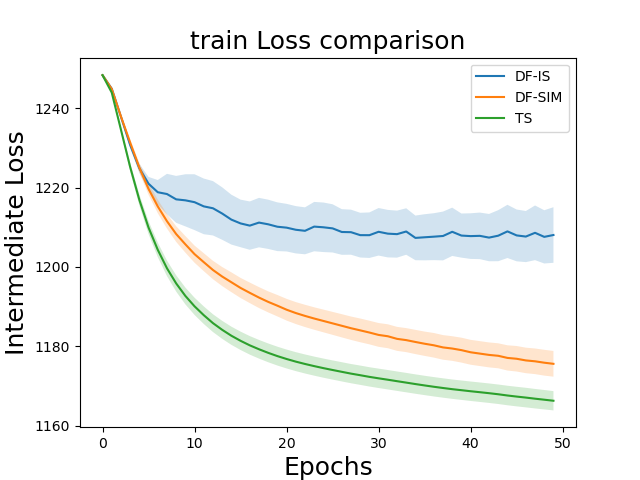
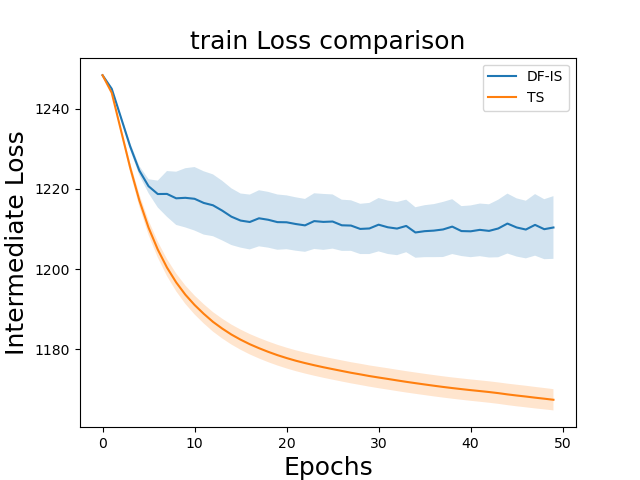
changed to 5-state MDP with ts_weight=0.5

diff --git a/dfl/visualization.py b/dfl/visualization.py
@@ -74,6 +74,9 @@ if args.plot:
 
     num_epochs= len(df_is_outputs[0][0][mode])-1 ## Last entry is the OPE if GT is perfectly known
 
+    random_metrics = [[ts_outputs[sd-args.seed][i][mode][-1] for i in range(3)] for sd in range(args.seed, args.seed+args.tr)]
+    random_mean, random_ste = np.mean(random_metrics, axis=0), np.std(random_metrics, axis=0) / np.sqrt(len(ts_outputs))
+    
     ### Loss figure
     plt.figure()
     
@@ -108,8 +111,8 @@ if args.plot:
     plt.plot(range(num_epochs), df_is_means, label='DF-IS')
     plt.fill_between(range(num_epochs), df_is_means-df_is_errors, df_is_means+df_is_errors, alpha=0.2)
     
-    plt.plot(range(num_epochs), df_sim_means, label='DF-SIM')
-    plt.fill_between(range(num_epochs), df_sim_means-df_sim_errors, df_sim_means+df_sim_errors, alpha=0.2)
+    # plt.plot(range(num_epochs), df_sim_means, label='DF-SIM')
+    # plt.fill_between(range(num_epochs), df_sim_means-df_sim_errors, df_sim_means+df_sim_errors, alpha=0.2)
     
     plt.plot(range(num_epochs), ts_means, label='TS')
     plt.fill_between(range(num_epochs), ts_means-ts_errors, ts_means+ts_errors, alpha=0.2)
@@ -156,8 +159,8 @@ if args.plot:
     plt.plot(range(num_epochs), df_is_means, label='DF-IS')
     plt.fill_between(range(num_epochs), df_is_means-df_is_errors, df_is_means+df_is_errors, alpha=0.2)
     
-    plt.plot(range(num_epochs), df_sim_means, label='DF-SIM')
-    plt.fill_between(range(num_epochs), df_sim_means-df_sim_errors, df_sim_means+df_sim_errors, alpha=0.2)
+    # plt.plot(range(num_epochs), df_sim_means, label='DF-SIM')
+    # plt.fill_between(range(num_epochs), df_sim_means-df_sim_errors, df_sim_means+df_sim_errors, alpha=0.2)
     
     plt.plot(range(num_epochs), ts_means, label='TS')
     plt.fill_between(range(num_epochs), ts_means-ts_errors, ts_means+ts_errors, alpha=0.2)
@@ -204,8 +207,8 @@ if args.plot:
     plt.plot(range(num_epochs), df_is_means, label='DF-IS')
     plt.fill_between(range(num_epochs), df_is_means-df_is_errors, df_is_means+df_is_errors, alpha=0.2)
     
-    plt.plot(range(num_epochs), df_sim_means, label='DF-SIM')
-    plt.fill_between(range(num_epochs), df_sim_means-df_sim_errors, df_sim_means+df_sim_errors, alpha=0.2)
+    # plt.plot(range(num_epochs), df_sim_means, label='DF-SIM')
+    # plt.fill_between(range(num_epochs), df_sim_means-df_sim_errors, df_sim_means+df_sim_errors, alpha=0.2)
     
     plt.plot(range(num_epochs), ts_means, label='TS')
     plt.fill_between(range(num_epochs), ts_means-ts_errors, ts_means+ts_errors, alpha=0.2)
@@ -237,18 +240,15 @@ if args.plot:
     df_sim_selected_epoch = np.argmax(df_sim_outputs[sd-args.seed][2]['val'][:-1]) # Maximize SIM OPE
     df_sim_selected_metrics.append([df_sim_outputs[sd-args.seed][i]['test'][df_sim_selected_epoch] for i in range(3)])
   
-  random_metrics = [[ts_outputs[sd-args.seed][i]['test'][-1] for i in range(3)] for sd in range(args.seed, args.seed+args.tr)]
-
   ts_selected_metrics=np.array(ts_selected_metrics)
   df_is_selected_metrics=np.array(df_is_selected_metrics)
   df_sim_selected_metrics=np.array(df_sim_selected_metrics)
 
-  random_test_mean, random_test_ste = np.mean(random_metrics, axis=0), np.std(random_metrics, axis=0) / np.sqrt(len(ts_outputs))
   ts_test_mean, ts_test_ste         = np.mean(ts_selected_metrics, axis=0), np.std(ts_selected_metrics, axis=0) / np.sqrt(len(ts_outputs))
   df_is_test_mean, df_is_test_ste   = np.mean(df_is_selected_metrics, axis=0), np.std(df_is_selected_metrics, axis=0) / np.sqrt(len(df_is_outputs))
   df_sim_test_mean, df_sim_test_ste = np.mean(df_sim_selected_metrics, axis=0), np.std(df_sim_selected_metrics, axis=0) / np.sqrt(len(df_sim_outputs))
 
-  print('Random test metrics mean (Loss/IS OPE/Sim OPE): {}, std: {}'.format(random_test_mean, random_test_ste)) # only valid after 0119
+  print('Random test metrics mean (Loss/IS OPE/Sim OPE): {}, std: {}'.format(random_mean, random_ste)) # only valid after 0119
   print('Two-stage test metrics mean (Loss/IS OPE/Sim OPE): {}, std: {}'.format(ts_test_mean, ts_test_ste))
   print('DF-IS test metrics mean (Loss/IS OPE/ Sim OPE): {}, std: {}'.format(df_is_test_mean, df_is_test_ste))
   print('DF-sim test metrics mean (Loss/IS OPE/Sim OPE): {}, std: {}'.format(df_sim_test_mean, df_sim_test_ste))

diff --git a/dfl/ope.py b/dfl/ope.py
@@ -162,7 +162,7 @@ class opeSimulator(object):
         policy_id = policy_map[beh_policy_name]
         self.emp_T_data, self.emp_R_data = getEmpTransitionMatrix(traj=beh_traj, policy_id=policy_id, n_benefs=n_benefs, m=m, env=env, H=H, use_informed_prior=use_informed_prior)
         if env == 'general':
-            self.emp_T_data = T_data # Directly using the real T_data
+            # self.emp_T_data = T_data # Directly using the real T_data
             self.emp_R_data = R_data # Reward list is explicitly given in the MDP version
 
     def __call__(self, w, K):

diff --git a/dfl/train.py b/dfl/train.py
@@ -36,11 +36,11 @@ if __name__ == '__main__':
     n_trials = 100
     L = 10
     K = 20
-    n_states = 4
+    n_states = 5
     gamma = 0.99
     target_policy_name = 'soft-whittle'
     beh_policy_name    = 'random'
-    TS_WEIGHT=0.1
+    TS_WEIGHT=0.5
 
     # Environment setup
     env = args.env
